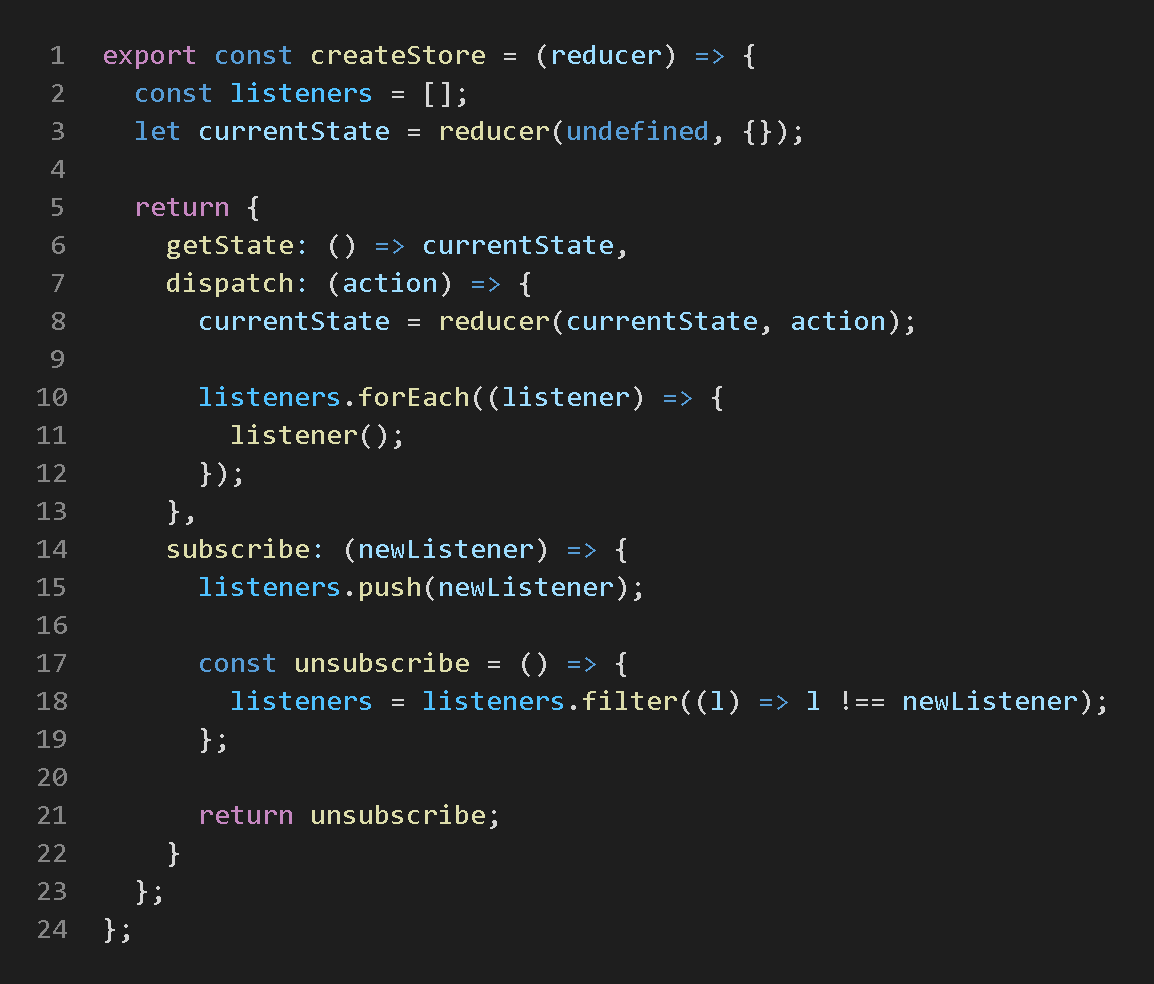
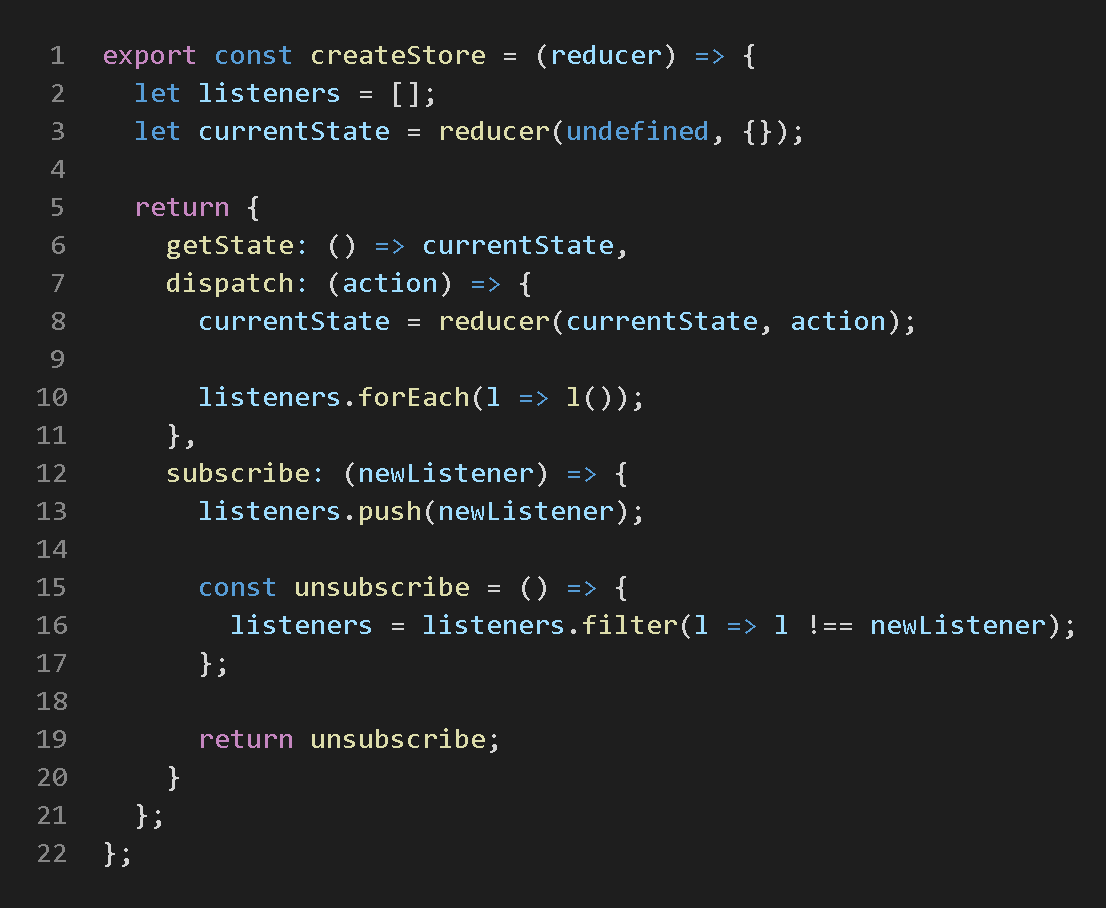
feat: add React-18-based global state manager, refactor HTML/CSS
This global state manager is based on React 18's `useSyncExternalStore` hook

diff --git a/src/App.tsx b/src/App.tsx
@@ -1,16 +1,26 @@
+import { useState } from 'react';
+
 import { useGlobalState as useContextBasedGlobalState } from './stateManagers/contextBased/StateProvider';
-import store, { counterActions } from './stores/closureBased/store';
 import { useGlobalState as useClosureBasedGlobalState } from './stateManagers/closureBased/hooks';
+import { useGlobalState as useReact18BasedGlobalState } from './stateManagers/react18Based/hooks';
+import closureBasedStore, { counterActions as closureBasedCounterActions } from './stores/closureBased/store';
+import react18BasedStore, {counterActions as react18BasedCounterActions } from './stores/react18Based/store';
+
 import closureBasedCreateStore from './assets/closureBasedCreateStore.png';
 import closureBasedHook from './assets/closureBasedHook.png';
 import closureBasedUsage from './assets/closureBasedUsage.png';
 import contextBasedStateProvider from './assets/contextBasedStateProvider.png';
 import contextBasedProvidingState from './assets/contextBasedProvidingState.png';
 import contextBasedUsage from './assets/contextBasedUsage.png';
+import react18BasedHook from './assets/react18BasedHook.png';
+import react18BasedUsage from './assets/react18BasedUsage.png';
 
 function App() {
   const counter = useClosureBasedGlobalState(state => state.counter);
   const { state, setState } = useContextBasedGlobalState();
+  const counterReact18 = useReact18BasedGlobalState(state => state.counter);
+
+  const [ isSameSignHovered, setIsSameSignHovered ] = useState(false);
 
   return (
     <>
@@ -19,10 +29,19 @@ function App() {
       <main>
         <div className='manager-presentation-box'>
           <h2>Closure-based state manager (main)</h2>
-          <img src={closureBasedCreateStore} alt='Showcase of createStore in closure-based state manager' />
+          <div className='image-with-text-container'>
+            <img src={closureBasedCreateStore} alt='Showcase of createStore in closure-based state manager' />
+            <div
+              onMouseEnter={() => setIsSameSignHovered(true)}
+              onMouseLeave={() => setIsSameSignHovered(false)}
+                className='same-image-sign'
+                style={{ backgroundColor: isSameSignHovered ? '#80808080' : 'initial' }}>
+                Same
+            </div>
+          </div>
           <img src={closureBasedHook} alt='Showcase of the hook in closure-based state manager' />
-          <img src={closureBasedUsage} alt='Showcase of usage in closure-based state manager' />
-          <button onClick={() => store.dispatch(counterActions.increment)}>
+          <img src={closureBasedUsage} alt='Showcase of usage of closure-based state manager' />
+          <button onClick={() => closureBasedStore.dispatch(closureBasedCounterActions.increment)}>
             counter is {counter}
           </button>
         </div>
@@ -31,9 +50,28 @@ function App() {
           <h2>Context-based state manager</h2>
           <img src={contextBasedStateProvider} alt='Showcase of state provider in context-based state manager' />
           <img src={contextBasedProvidingState} alt='Showcase of providing the state in context-based state manager' />
-          <img src={contextBasedUsage} alt='Showcase of usage in context-based state manager' />
+          <img src={contextBasedUsage} alt='Showcase of usage of context-based state manager' />
           <button onClick={() => setState({ ...state, counter: state.counter + 1 })}>
             state.counter is {state.counter}
+          </button>
+        </div>
+
+        <div className='manager-presentation-box'>
+          <h2>React-18-based state manager</h2>
+          <div className='image-with-text-container'>
+            <img src={closureBasedCreateStore} alt='Showcase of createStore in React-18-based state manager' />
+            <div
+              onMouseEnter={() => setIsSameSignHovered(true)}
+              onMouseLeave={() => setIsSameSignHovered(false)}
+                className='same-image-sign'
+                style={{ backgroundColor: isSameSignHovered ? '#80808080' : 'initial' }}>
+                Same
+            </div>
+          </div>
+          <img src={react18BasedHook} alt='Showcase of the hook in React-18-based state manager' />
+          <img src={react18BasedUsage} alt='Showcase of usage of React-18-based state manager' />
+          <button onClick={() => react18BasedStore.dispatch(react18BasedCounterActions.increment)}>
+            counterReact18 is {counterReact18}
           </button>
         </div>
       </main>

diff --git a/src/stores/react18Based/store.ts b/src/stores/react18Based/store.ts
@@ -1,0 +1,26 @@
+import { createStore } from '../../stateManagers/closureBased/stateManager';
+
+export const initialState = {
+  counter: 0,
+};
+
+export const counterActions = {
+  increment: { type: 'INCREMENT' },
+  decrement: { type: 'DECREMENT' },
+} as const;
+
+const counterReducer = (state = initialState, action) => {
+  switch(action.type) {
+    case counterActions.increment.type:
+      return { counter: state.counter + 1 };
+
+    case counterActions.decrement.type:
+      return { counter: state.counter - 1 };
+
+    default: return state;
+  }
+};
+
+const store = createStore(counterReducer);
+
+export default store;

diff --git a/src/index.css b/src/index.css
@@ -32,7 +32,7 @@ body {
 main {
   display: flex;
   justify-content: space-between;
-  width: 90vw;
+  gap: 10px;
 }
 
 h1 {
@@ -47,7 +47,7 @@ h2 {
 
 img {
   display: block;
-  max-width: 90%;
+  width: 100%;
 }
 
 button {
@@ -75,6 +75,20 @@ button:focus-visible {
   flex-direction: column;
   align-items: center;
   gap: 10px;
+  flex: 1;
+}
+
+.image-with-text-container {
+  position: relative;
+}
+
+.same-image-sign {
+  position: absolute;
+  top: 0px;
+  right: 0px;
+  border: 0.08vw solid gray;
+  padding: 5px;
+  cursor: default;
 }
 
 @media (prefers-color-scheme: light) {

diff --git a/src/stateManagers/react18Based/stateManager.ts b/src/stateManagers/react18Based/stateManager.ts
@@ -1,0 +1,22 @@
+export const createStore = (reducer) => {
+  let listeners = [];
+  let currentState = reducer(undefined, {});
+
+  return {
+    getState: () => currentState,
+    dispatch: (action) => {
+      currentState = reducer(currentState, action);
+
+      listeners.forEach(l => l());
+    },
+    subscribe: (newListener) => {
+      listeners.push(newListener);
+
+      const unsubscribe = () => {
+        listeners = listeners.filter(l => l !== newListener);
+      };
+
+      return unsubscribe;
+    }
+  };
+};

diff --git a/src/stateManagers/react18Based/hooks.ts b/src/stateManagers/react18Based/hooks.ts
@@ -1,0 +1,5 @@
+import { useSyncExternalStore } from 'react';
+
+import store from '../../stores/react18Based/store';
+
+export const useGlobalState = selector => selector(useSyncExternalStore(store.subscribe, store.getState));
